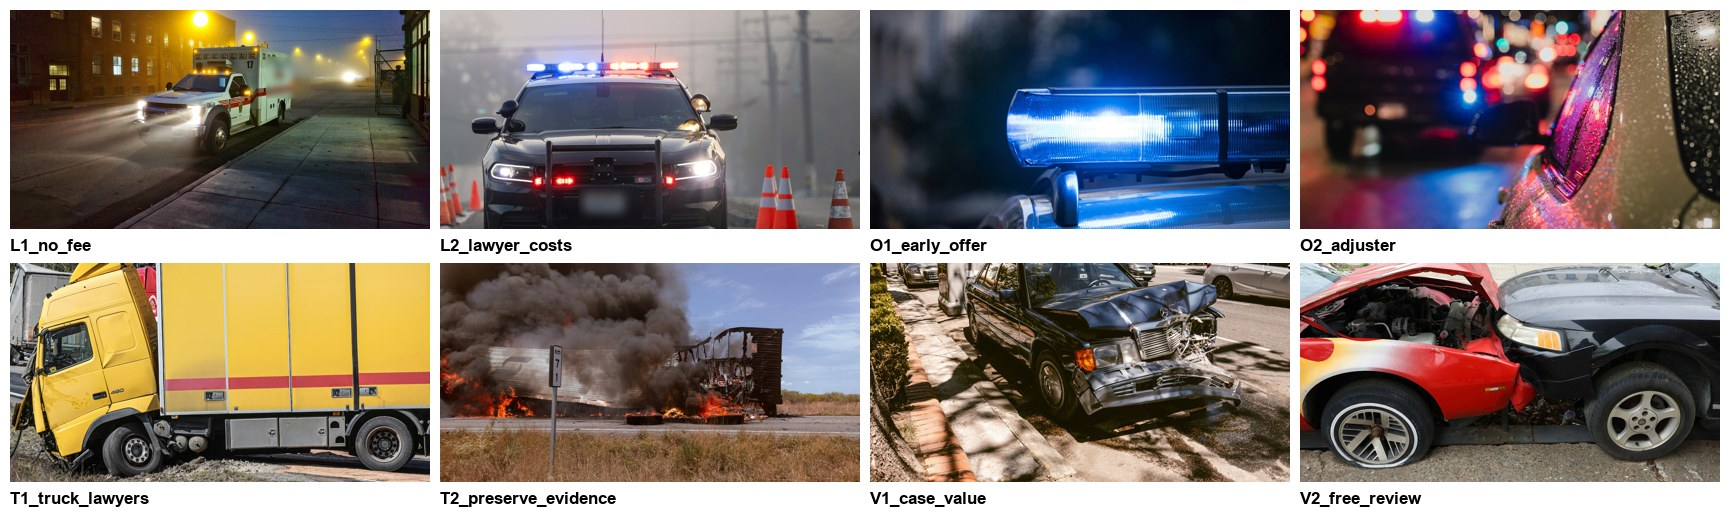
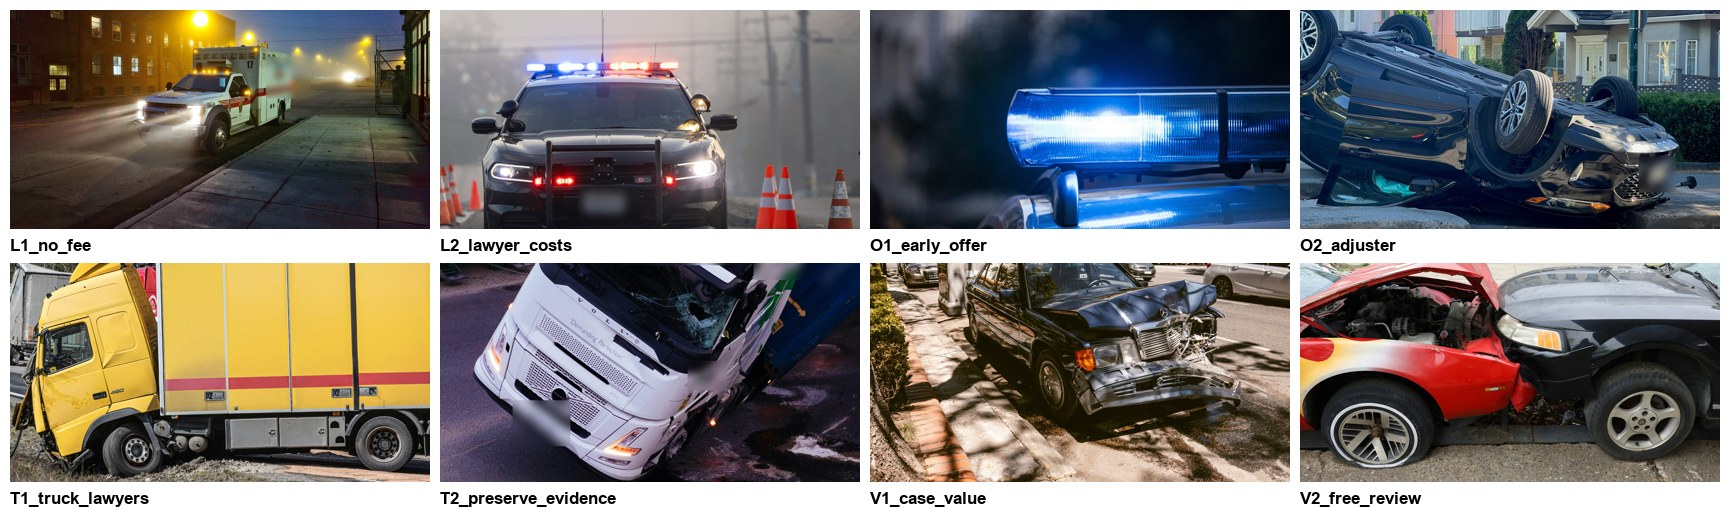
vault backup: 2026-10-13 16:38:56

Changed region(s): [[0.7491, 0.0, 0.9988, 0.4651], [0.2497, 0.4961, 0.4994, 0.9612]]

diff --git a/Скрипты/openai_ads.py b/Скрипты/openai_ads.py
@@ -243,9 +243,9 @@ def cmd_set_image(a):
         print(f"записано: {ad['name']} → {fid}")
     time.sleep(3)
     print("\nПрочитано обратно из аккаунта:")
-    after = {ad["id"]: ad for ad in list_ads(a.campaign)}
     for ad, _ in todo:
-        x = after[ad["id"]]
+        # прямое чтение объявления: сразу после записи список по группе мог не отдать объявление (13.10 — CT-L2)
+        x = call("GET", f"/ads/{ad['id']}")
         cr = x["creative"]
         print(f"{x['name']}  {x['status']}/{x.get('review_status')}  {cr.get('title')} | {cr.get('file_id')} | {crop_text(cr)}")
 

diff --git a/Клиенты/Andverpersonalinjury/Медиа/Кандидаты_2026-10-13/_план_замены.md b/Клиенты/Andverpersonalinjury/Медиа/Кандидаты_2026-10-13/_план_замены.md
@@ -1,44 +1,35 @@
 ---
 name: andverpersonalinjury-план-замены-картинок-car-truck-2026-10-13
-description: План замены картинок в кампаниях car+truck (OpenAI Ads и Google Ads) на 8 разных кадров: соответствие объявлениям, источники, правки, риски; ждёт «да»
-status: план, в кабинеты не записано
+description: План и статус замены картинок в OpenAI Ads car+truck: 8 разных кадров, соответствие объявлениям, что сделано и что ждёт; Google Ads не трогаем
+status: частично выполнено 2026-10-13 (6 из 8 в OpenAI Ads, на модерации)
 updated: 2026-10-13
 ---
 
-# Замена картинок car+truck: план (ждёт «да»)
+# Замена картинок car+truck: статус
 
-Решение пользователя 2026-10-13: у каждого объявления своя картинка, заменить все, только кампании car+truck. Сюжеты — скорая и полиция как контекст ДТП без людей и без юриста рядом ([[../../../База_знаний/Паттерны/Юристы-Калифорния-картинки-в-рекламе-что-нельзя-и-как-проверять]]). Лицензии — [[../Лицензии-изображений]].
+Решения пользователя 2026-10-13: у каждого объявления своя картинка; сюжеты скорая и полиция как контекст ДТП без людей ([[../../../База_знаний/Паттерны/Юристы-Калифорния-картинки-в-рекламе-что-нельзя-и-как-проверять]]); **заменяем только в OpenAI Ads, Google Ads не трогаем**; объявления «Копия Ad CT-…» пользователь выключает сам, в них ничего не меняем. Лицензии — [[../Лицензии-изображений]]. Превью: `_лист_квадраты.jpg`, `_лист_горизонтальные.jpg`.
 
-Превью: `_лист_квадраты.jpg`, `_лист_горизонтальные.jpg` в этой папке.
+## OpenAI Ads, кампания `cmpn_6ac654ebdf448199826b33648b3f1a89`
+| Группа | Объявление | Картинка | Статус |
+|---|---|---|---|
+| Early Offer | CT-O1 | O1_early_offer: маячок полиции крупно | записано, in_review |
+| Early Offer | CT-O2 | O2_adjuster (новая): перевёрнутая машина на улице | ждёт просмотра пользователем, не записано |
+| Case Value | CT-V1 | V1_case_value: повреждённый седан | записано, in_review |
+| Case Value | CT-V2 | V2_free_review: лобовое столкновение | записано, in_review |
+| Truck Liability and Evidence | CT-T1 | T1_truck_lawyers: жёлтый грузовик в кювете | записано, in_review |
+| Truck Liability and Evidence | CT-T2 | T2_preserve_evidence (новая): фура на боку с контейнером, эвакуаторы | ждёт просмотра пользователем, не записано |
+| Lawyer Cost | CT-L1 | L1_no_fee: скорая ночью в тумане | записано, in_review |
+| Lawyer Cost | CT-L2 | L2_lawyer_costs: патруль у конусов | записано, in_review |
 
-## OpenAI Ads: 8 объявлений, кампания `cmpn_6ac654ebdf448199826b33648b3f1a89`
-| Группа | Объявление | Заголовок | Новая картинка | Что в кадре |
-|---|---|---|---|---|
-| Early Offer | CT-O1 | Early Offer After Your Crash? | O1_early_offer | синий маячок полицейской машины крупно, ночь |
-| Early Offer | CT-O2 | The Adjuster Called Already? | O2_adjuster | огни полиции и ночной поток, размыто |
-| Case Value | CT-V1 | What Is Your Crash Case Worth? | V1_case_value | повреждённый седан у обочины, улица |
-| Case Value | CT-V2 | CA Car Crash Injury Lawyers (Free Review) | V2_free_review | лобовое столкновение двух машин |
-| Truck Liability and Evidence | CT-T1 | CA Truck Accident Injury Lawyers | T1_truck_lawyers | жёлтый фургон в кювете, смятая кабина |
-| Truck Liability and Evidence | CT-T2 | Truck Crash? Preserve the Evidence | T2_preserve_evidence | горящий прицеп у дороги |
-| Lawyer Cost | CT-L1 | Hurt in a Crash? No Fee Unless We Win | L1_no_fee | скорая ночью в тумане |
-| Lawyer Cost | CT-L2 | Worried About Lawyer Costs? | L2_lawyer_costs | патрульная машина у конусов |
+Механизм: `python Скрипты/openai_ads.py set-image --campaign … --map Клиенты/Andverpersonalinjury/Кампании/OpenAI_Ads/images_car_truck_2026-10-13.json [--only ad_id …] [--execute]`. Файл соответствий уже содержит все 8; для O2 и T2 после «да»: `--only ad_6ac6550e649c819ba79f3bf2f7028243 ad_6ac655138a0081a39c424fe4d0fbba8a --execute`. Подробности записи — [[../Журнал_изменений]] И-024.
 
-Что будет записано: загрузка 8 файлов (Files), замена `file_id` у 8 объявлений (или создание новых объявлений и остановка старых). **Не проверено:** позволяет ли API обновить `creative` у существующего объявления и допустимые значения `image_crop`; в `Скрипты/openai_ads.py` такой команды нет. Заменённое объявление может уйти на повторную модерацию.
+## Риски и допущения
+1. Все 6 записанных объявлений на повторной модерации; если отклонят — вернуть прежний `file_id` (снимок `Статистика/openai_ads_creatives_before_20261013_1636.json`).
+2. **Не выключать «Копии» до одобрения шести заменённых**: пока они в `in_review`, исходные CT-O2 и CT-T2 и три копии — единственные, что гарантированно показываются.
+3. L1 и L2: на кадрах ливрея реальных служб; размыты только номер и название на борту.
+4. T2: размытия заметны (название компании на кабине и борту), кадр читается как авария фуры.
+5. Кадры не калифорнийские (Вена, Ванкувер, Буэнос-Айрес, Луисвилл, Цинциннати, у T1 европейская кабина); место заявлять нельзя.
+6. Тест текстов 2026-08-28 («одна картинка, меняется только текст») нарушен: сравнивать группы по текстам без поправки на картинку нельзя.
 
-## Google Ads: кампания `search / car+truck injuries / s / lp - tilda` (id 24331208797)
-Картинки на уровне кампании (поле AD_IMAGE). Сейчас привязаны 11 ассетов: 400672456649, 400673045777, 403810962350, 403912160572, 403985517774, 403985583744, 404419332375, 428163520465, 428252913345, 428252914215, 428253210177 (контактный лист — `../Текущие_картинки_2026-10-13_контактный_лист.jpg`). Логотип 367221514317 (BUSINESS_LOGO) остаётся.
-Что будет записано: отвязать 11 от кампании, загрузить 16 новых (8 кадров × 1.91:1 и 1:1), привязать к кампании; снимок «до» — CSV в `Статистика/`; чтение обратно. Скрипта для такой замены нет; нужен новый с режимом `validate_only` по умолчанию.
-Привязка к уровню группы объявлений (6 групп) возможна, но объявлений в Google 6, а кадров 8 — выбираем уровень кампании, чтобы не терять кадры.
-
-## Допущения (проверить)
-1. Сюжеты и соответствие заголовкам выбраны мной, не клиентом.
-2. Кадры не калифорнийские: Вена, Ванкувер, Буэнос-Айрес, Луисвилл, Цинциннати, у T1 европейская кабина, у T2 столбик «km». Место заявлять нельзя.
-3. T2 (горящий прицеп) ярче остальных; запасной вариант — трасса с конусами и эвакуаторами (Unsplash `_mv4_eYTXeY`; вдали несколько людей в жилетах), в итоговую папку не включён.
-4. L1 и L2: ливрея реальных служб осталась, размыты только номера и надпись; для чистоты лучше заменить на кадр без служб.
-5. Раскрытие драматизации (§6157.2(a)(3)(B)) для этих кадров, скорее всего, не нужно, так как в них нет людей, выдаваемых за клиентов; решение по §6157.2 остаётся за юристом клиента.
-6. Это не ИИ-картинки, поэтому метки ИИ не нужны; нужно подтвердить, что клиента устраивают стоковые кадры.
-7. Тест текстов в OpenAI Ads: разные картинки на 8 объявлениях ломают сравнение «только текст отличается» из ТЗ 2026-08-28. Сравнивать группы по текстам после замены без поправки на картинку нельзя.
-
-## Что не сделано
-- Загрузка в кабинеты, скрипты замены (Google — `gads_campaign_images_replace.py`, OpenAI — команда для `openai_ads.py`), запись в `Журнал_изменений.md` и логи кампаний.
-- Кадр «документ traffic collision report»: в стоке подходящего не нашлось (формы с чужим содержимым или с деньгами).
+## Google Ads
+По решению пользователя 2026-10-13 не трогаем. 11 ИИ-картинок кампании `search / car+truck injuries / s / lp - tilda` (7 с наличными, 10 с людьми) остаются; юридический риск по §6157.2 передан на решение пользователю, см. [[../../../База_знаний/Паттерны/Юристы-Калифорния-картинки-в-рекламе-что-нельзя-и-как-проверять]].

diff --git a/Клиенты/Andverpersonalinjury/Задачи.md b/Клиенты/Andverpersonalinjury/Задачи.md
@@ -113,8 +113,12 @@ updated: 2026-10-13
 
 ## Картинки в активных объявлениях (2026-10-13, претензия клиента)
 Контекст: клиент сказал, что в Google Ads и OpenAI Ads одинаковые картинки и непонятно, что на них изображено, и попросил добавить картинки скорой помощи и полиции без уточнений, что именно показывать. Что стоит сейчас — [[Медиа/Текущие_картинки_2026-10-13_контактный_лист.jpg]]; правила — [[../../База_знаний/Паттерны/Юристы-Калифорния-картинки-в-рекламе-что-нельзя-и-как-проверять]].
-- [ ] #задача #клиент/Andverpersonalinjury Уточнить у клиента сюжет «скорая/полиция»: (1) что в кадре — только транспорт и сцена ДТП без людей, или пострадавшие, или сотрудники служб; (2) для каких кампаний (Google Ads car+truck, OpenAI Ads car+truck, dog bite); (3) картинки заменить или добавить к текущим. Без ответа не готовить финальный набор
+- [x] #задача #клиент/Andverpersonalinjury Уточнить у клиента сюжет «скорая/полиция» — решено пользователем 2026-10-13: четыре сюжета без людей, у каждого объявления свой кадр, только OpenAI Ads car+truck
 - [ ] #задача #клиент/Andverpersonalinjury Показать юристу клиента контактный лист: 7 из 11 картинок Google Ads car+truck с пачками наличных (по тексту B&P §6157.2(a)(2) символ «быстрых денег»), 10 из 11 с ИИ-людьми в бинтах и гипсе в роли клиентов, 11-й — игрушечные фигурки (§6157.2(a)(3)(B), нужно раскрытие драматизации); решить — снять, заменить или раскрыть. На OpenAI Ads 2026-10-07 картинка с деньгами и повязкой уже была отклонена как outcome-намёк, в Google Ads она осталась
 - [x] #задача #клиент/Andverpersonalinjury Подготовить 8 кандидатов под объявления car+truck (сторонний сток без людей, режим А плейбука [[../../База_знаний/Агенты/Создатель_картинок]]), лицензии записаны в [[Медиа/Лицензии-изображений]] — сделано 2026-10-13, план [[Медиа/Кандидаты_2026-10-13/_план_замены]]
-- [ ] #задача #клиент/Andverpersonalinjury Получить «да» по плану замены картинок car+truck (8 кадров, только car+truck, оба канала) и написать скрипты записи: Google Ads — отвязать 11 картинок кампании и привязать 16 новых (`validate_only` по умолчанию, снимок «до»); OpenAI Ads — загрузить файлы и заменить `file_id` у 8 объявлений (сначала проверить, умеет ли API менять creative у существующего объявления)
+- [x] #задача #клиент/Andverpersonalinjury Замена картинок в OpenAI Ads car+truck у 6 из 8 исходных объявлений — сделано 2026-10-13 (И-024), Google Ads не трогаем по решению пользователя
+- [ ] #задача #клиент/Andverpersonalinjury Проверить модерацию 6 заменённых объявлений OpenAI Ads car+truck (`python Скрипты/openai_ads.py ads --campaign cmpn_6ac654ebdf448199826b33648b3f1a89`: статус in_review → approved); при отклонении вернуть прежний file_id из снимка `Статистика/openai_ads_creatives_before_20261013_1636.json`
+- [ ] #задача #клиент/Andverpersonalinjury Показать пользователю новые кадры CT-O2 (перевёрнутая машина) и CT-T2 (фура на боку) и после «да» записать `openai_ads.py set-image --only ad_6ac6550e649c819ba79f3bf2f7028243 ad_6ac655138a0081a39c424fe4d0fbba8a --execute`
+- [ ] #задача #клиент/Andverpersonalinjury Выключить три объявления «Копия Ad CT-…» (делает пользователь) — только после того, как 6 заменённых объявлений будут approved, иначе в группах нечему показываться
+- [ ] #задача #клиент/Andverpersonalinjury Через 3–5 дней показов прочитать CTR по объявлениям (`openai_ads.py insights --level ad`) и записать вывод по картинкам; помнить, что тест текстов теперь смешан с картинкой
 - [ ] #задача #клиент/Andverpersonalinjury Решить отдельно, нужен ли разный сюжет в OpenAI Ads: все 8 объявлений car+truck используют одну картинку по предписанию клиентского ТЗ 2026-08-28 («same image asset, only variable is copy») — теперь клиент просит иначе, разные сюжеты ломают чистоту сравнения текстов; зафиксировать выбор в [[Решения]]

diff --git a/Клиенты/Andverpersonalinjury/Решения.md b/Клиенты/Andverpersonalinjury/Решения.md
@@ -242,3 +242,5 @@ Match type — только PHRASE/EXACT (см. запись выше), final_ur
 ## [2026-10-09] Andverpersonalinjury / LSA — перечень услуг сужен до ДТП | пользователь сообщил и показал скриншот: в окне «Manage industries and services» включены только Auto accidents и Pedestrian accidents, остальные 14 выключены; реклама LSA запущена (со слов пользователя); «Pedestrian accidents» оставлена сознательно | гипотеза: ограничение услугами ДТП снизит долю обращений не по теме; не проверено, нет данных после включения | результат: см. [[Журнал_изменений]] И-019; закрывает старую задачу отключить «Серьёзные травмы» и «Причинение смерти»; открытых вопросов нет. Тезисы для созвона начальника с клиентом составлены в этой же сессии (клик 08.10 в них без суммы; при прямом вопросе клиента сумму называть)
 
 ## [2026-10-12] Andverpersonalinjury / Google Search car+truck — точные ключи по частым запросам чистого поиска + ручное CPC; фразовые остаются со сниженной ставкой | пользователь предложил собрать самые частые запросы по ДТП за год из чистого поиска (не из партнёров), завести их в точном соответствии, фразовые оставить как разведку с меньшей ставкой и отсекать мусор минусами; выбран вариант A (одна кампания, ручное CPC) | срез на момент решения (чтение API 12.10): история 2026 по Search-кампаниям без dog bite — чистый поиск 4 000 показов, 1 551 уникальных запросов, максимум 151 показ у запроса за 9 месяцев, топ-10 = 13,5% показов; отчёт запросов показывает 40% показов чистого поиска (остальное скрыто); 70% показов и 91% расхода чистого поиска ДТП — через близкие варианты фразового; партнёры — другая популяция (90,7% их показов — запросы, которых нет в чистом поиске), CTR 18,2% против 2,1%, 7 конверсий на $1 657 не сверены с Ringostat; кампания: Maximize clicks с потолком $50, ставки групп $0,01, 11.10 — 40 показов, 4 клика, $88,58, Lost IS rank 82% | рассмотрено: A — одна кампания + ручное CPC (выбрано: минусы действуют сразу, ставки по группам); B — отдельная кампания для точных (1 499 минусов пришлось бы копировать, бюджет делится) | результат: 34 точных ключа (17 из истории чистого поиска + 17 по паттерну «услуга × город» с объёмом ≥50/мес по Planner, свёрнуты по смыслу из 287 вариантов), 2 новые группы со ставкой $50, фразовые 108 ключей в 4 группах со ставкой $25, стратегия Manual CPC, сняты минусы «costa», «mission», «viejo» (резали города из гео), добавлен «costa rica»; записано скриптами после «да», прочитано обратно, см. [[Журнал_изменений]] И-021…И-023 | ставки $50/$25 приняты по моему предложению (точные = прежний потолок, фразовые вдвое ниже), ожидание и порог оценки мои — контрольная точка 2026-10-19 | ограничение: точное соответствие не лечит главную проблему (потеря показов по рангу, ориентир Planner на верх страницы $30–100); Auto Accident и 18 Wheeler точной копии не получили
+
+## [2026-10-13] Landver Law / картинки car+truck | у каждого объявления свой кадр: полиция и скорая как контекст ДТП без людей и без юриста; замена только в OpenAI Ads, Google Ads не трогаем | у клиента претензия: одинаковые и непонятные картинки; в Google Ads 11 ИИ-файлов с наличными (7) и «клиентами» (10), по §6157.2 это риск; от пользователя: сюжеты 4 штуки, два кадра (боке полиции, горящий прицеп) отклонены как непонятные | 6 из 8 объявлений OpenAI заменены 2026-10-13 (И-024), на повторной модерации; Google Ads не менялся по решению пользователя, риски по картинкам Google оставлены на согласование с юристом клиента; тест текстов OpenAI теперь смешан с эффектом картинки

diff --git a/Клиенты/Andverpersonalinjury/Журнал_изменений.md b/Клиенты/Andverpersonalinjury/Журнал_изменений.md
@@ -290,3 +290,15 @@ updated: 2026-10-09
 - Результат на сегодня: нет данных.
 - Для отчёта клиенту (EN): We removed three exclusion words that were blocking searches from cities in your service area.
 - Связано: [[Решения]] 2026-10-12, И-021.
+
+## [2026-10-13] И-024 | OpenAI Ads | Кампания «Landver Law - car+truck injuries - tilda» (`cmpn_6ac654ebdf448199826b33648b3f1a89`) | Картинки у 6 из 8 исходных объявлений | у всех стояла одна и та же картинка (крупный план разбитой фары, `file_00000000357881f799333e0dbe6eab5c`, обрезка по центру 2/3) → у каждого объявления свой кадр, квадрат 1:1 без обрезки (скрипт `Скрипты/openai_ads.py set-image --execute` после «да» пользователя)
+- Зачем: претензия клиента 2026-10-13: в активных объявлениях одинаковые картинки и непонятно, что на них изображено; клиент просил добавить скорую и полицию. Сюжеты — контекст ДТП без людей и без юриста рядом (см. [[../../База_знаний/Паттерны/Юристы-Калифорния-картинки-в-рекламе-что-нельзя-и-как-проверять]]).
+- Было → стало: CT-O1 → маячок полиции крупно; CT-V1 → повреждённый седан у обочины; CT-V2 → лобовое столкновение двух машин; CT-T1 → жёлтый грузовик в кювете; CT-L1 → скорая ночью в тумане; CT-L2 → патрульная машина у конусов. Файлы и лицензии — `Медиа/Кандидаты_2026-10-13/`, [[Медиа/Лицензии-изображений]].
+- Не менялись: CT-O2 и CT-T2 (первые версии кадров пользователь отклонил как непонятные, новые подготовлены и ждут просмотра); три объявления «Копия Ad CT-…» (решение пользователя: их выключают, там ничего не меняем); тексты, ссылки, ставки, статусы.
+- До: снимок `Статистика/openai_ads_creatives_before_20261013_1636.json` (все 11 объявлений кампании, включая `file_id` и обрезку).
+- Проверка после: прочитано обратно из аккаунта: у 6 объявлений новые `file_id`, `image_crop` 0/0/1/1, статус `active`, модерация `in_review` (повторная проверка запустилась автоматически). Одобрение на момент записи не получено.
+- Откат: `POST /ads/{id}` с прежним `file_id` и `image_crop` из снимка «до» (старый `file_id` 357881f7… остаётся в аккаунте; обрезка x 0.167, y 0, w 0.667, h 1).
+- Что измерять и когда: статус модерации в течение суток; после одобрения — CTR по каждому объявлению (порог чтения группы 1000 показов и 25 кликов, [[Кампании/OpenAI_Ads/car-truck-tilda-2026-10-07]]); сравнивать тексты групп по CTR после замены без поправки на картинку нельзя.
+- Результат на сегодня: нет данных (гипотеза: понятная картинка повысит CTR; не проверена).
+- Для отчёта клиенту (EN): We replaced the single shared image with a different, clearly readable crash-scene photo for each ad, so each ad shows what it is about.
+- Связано: [[Решения]] 2026-10-13.

diff --git a/Клиенты/Andverpersonalinjury/index.md b/Клиенты/Andverpersonalinjury/index.md
@@ -18,6 +18,7 @@ compensation. Call 24/7."** См. [[Решения]] 2026-09-08. `Статист
 # Andverpersonalinjury (Landver Law) — индекс
 
 2026-10-13: претензия клиента к картинкам в активных объявлениях (одинаковые, непонятные) и просьба добавить скорую и полицию. Что стоит: Google Ads car+truck — 11 файлов картинок = 6 сюжетов (рукопожатие у здания «Landver Law» повторено в 4 файлах), все сделаны ИИ, 7 с пачками наличных, 10 с людьми в бинтах; OpenAI Ads car+truck — 1 картинка (крупный план разбитой фары) на все 8 объявлений. Сюжет скорой/полиции клиентом не уточнён, юридические риски — [[../../База_знаний/Паттерны/Юристы-Калифорния-картинки-в-рекламе-что-нельзя-и-как-проверять]]; контактный лист — `Медиа/Текущие_картинки_2026-10-13_контактный_лист.jpg`; задачи — [[Задачи]].
+2026-10-13 (позже): по решению пользователя заменены картинки у 6 из 8 исходных объявлений OpenAI Ads car+truck, Google Ads не трогаем, объявления «Копия Ad» пользователь выключает; план и статус — [[Медиа/Кандидаты_2026-10-13/_план_замены]], запись — [[Журнал_изменений]] И-024.
 
 2026-10-12: Google car+truck перестроена по схеме «точные ключи + фразовая разведка»: стратегия Maximize clicks ($50) → Manual CPC; 4 фразовые группы ($25, 108 ключей) + 2 новые группы «Car/Truck Accident - Exact» ($50, 34 точных ключа, копии объявлений); сняты минусы «costa»/«mission»/«viejo», добавлен «costa rica». Основание: история запросов чистого поиска за 2026 (охват отчёта 40%, длинный хвост, партнёры — другая популяция запросов; чистый поиск ДТП 0 конверсий, партнёры 7 на $1 657 не сверены с Ringostat). Оценка 2026-10-19, проверка показов 13.10. См. [[Журнал_изменений]] И-021…И-023, [[Решения]] 2026-10-12, [[Кампании/Search/car-truck-tilda-2026-10-06]], [[../../База_знаний/Паттерны/Google-Ads-Search-точное-соответствие-из-истории-запросов]]; данные — `Статистика/gads_search_terms_head_2026-01-01_to_2026-10-11.csv`, `exact_plan_car_truck_2026-10-12.csv`.
 

diff --git a/Клиенты/Andverpersonalinjury/Кампании/OpenAI_Ads/car-truck-tilda-2026-10-07.md b/Клиенты/Andverpersonalinjury/Кампании/OpenAI_Ads/car-truck-tilda-2026-10-07.md
@@ -26,3 +26,4 @@ updated: 2026-10-09
 ## [2026-10-09] кампания/чтение Insights 07–09.10 | чтение через `openai_ads.py insights`, ничего не менялось | гипотеза «$7 вернёт показы» пока не подтверждена | по группам: 07.10 — 4 показа (Truck 3, Lawyer Cost 1); 08.10 — 6 (Truck 4, Early Offer 1, Lawyer Cost 1); 09.10 до 14:57 — 1 (Truck); итого 11 показов, 0 кликов, $0. Все 4 группы active, fixed_bid $7. Для сравнения, старая dog bite (`cmpn_6a7b1758f9508192b009ef9839299108`, ставка $8, 20.09–09.10): 6 498 показов, 22 клика, $232,41, CPC $9,43, CTR 0,35% (~325 показов в день на кампанию против ~4 здесь); у dog bite те же 3–4 hints на группу, гео не сверялось
 ## [2026-10-09] гео | к 3 рынкам и 92236 добавлены 43 индекса 12 городов клиента (`openai_ads_geo.py`, после «да») | города списка клиента в OpenAI не задать, только штат/рынок/индекс; рынки оставлены, чтобы не сужать охват | прочитано обратно: 47 локаций, статус и $40/день без изменений; см. Журнал_изменений И-020
 ## [2026-10-09] ставки групп | fixed_bid $7 → maximize_clicks во всех 4 группах (`openai_ads.py set-maxclicks`, после «да») | гипотеза пользователя: у dog bite показы пошли после перехода на maximize_clicks (по данным не доказано; различаются ещё гео и лимит) | прочитано обратно: все 4 maximize_clicks; смотреть показы с 10.10 24–48 ч, при единицах показов — гео на всю California, см. Журнал_изменений И-018
+## [2026-10-13] картинки | замена картинки у 6 из 8 исходных объявлений (CT-O1, CT-V1, CT-V2, CT-T1, CT-L1, CT-L2) на разные кадры: полиция, авария, фура, скорая; `openai_ads.py set-image --execute` после «да» | у всех 8 была одна картинка, клиент: «одинаковые и непонятные» | записано, прочитано обратно: новые file_id, статус active/in_review; CT-O2 и CT-T2 не менялись (новые кадры ждут просмотра); 3 «Копия Ad» пользователь выключает сам | см. Журнал_изменений И-024
